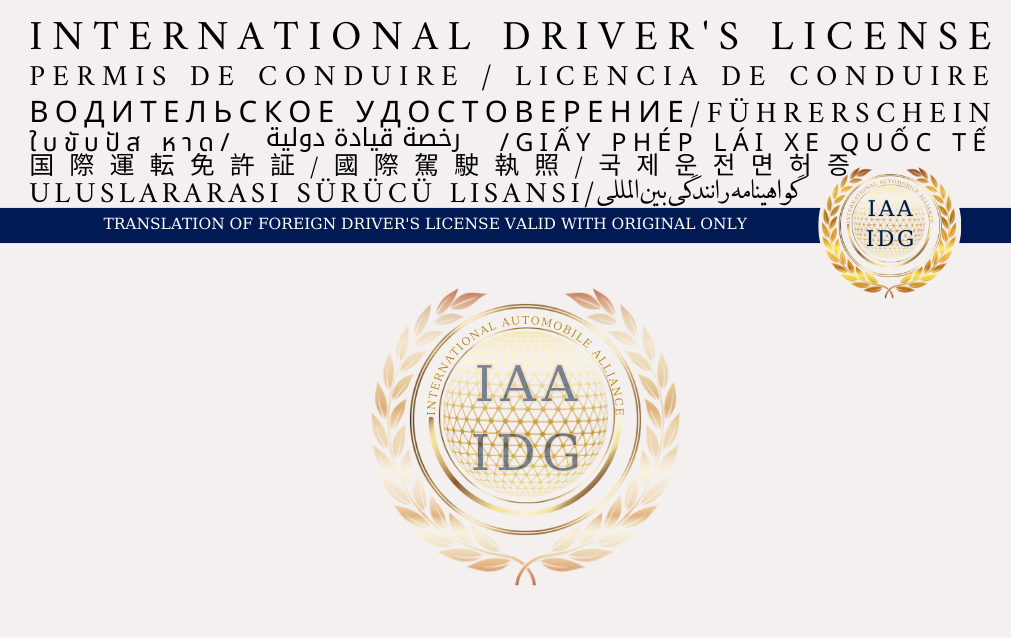
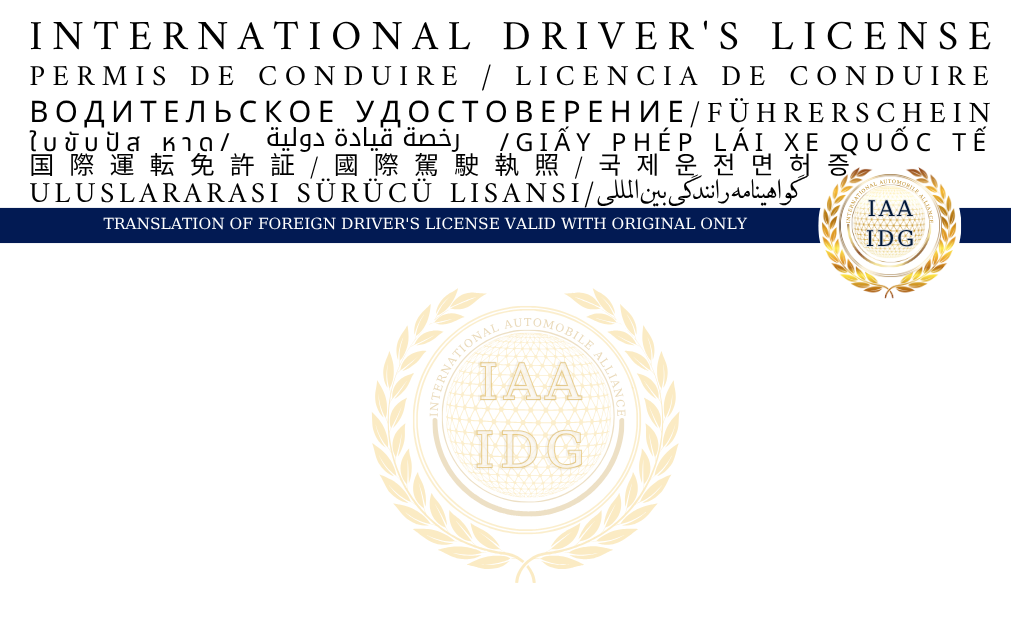
changes on the card image

Changed region(s): [[0.368, 0.446, 0.6746, 0.9218], [0.3986, 0.2379, 0.4293, 0.2676]]

diff --git a/src/components/InternationalDriverLicenseCard.tsx b/src/components/InternationalDriverLicenseCard.tsx
@@ -139,6 +139,7 @@ const InternationalDriverLicenseCard = ({
                             <div className="border border-gray-300 overflow-scroll p-4 rounded-lg bg-gray-50 flex justify-center">
                                 <div
                                     className="w-full max-w-md min-w-md overflow-hidden"
+                                    style={{ maxWidth: '30rem' }}
                                     ref={idCardRef}
                                 >
                                     {/* Card container with empty card background */}
@@ -150,7 +151,7 @@ const InternationalDriverLicenseCard = ({
                                     >
                                         {/* Empty card background image */}
                                         <img
-                                            src="/empty-card.png"
+                                            src="/card_bg.png"
                                             alt="International Driver's License Template"
                                             className="absolute top-0 left-0 w-full h-full object-cover"
                                         />
@@ -160,7 +161,7 @@ const InternationalDriverLicenseCard = ({
                                             className="absolute top-0 left-0 w-full h-full ">
                                             {/* Main content area (positioned to match the empty card) */}
                                             <div
-                                                className="absolute top-[37%] left-[28%] right-[4%]  font-bold text-xs flex flex-col gap-[3px]">
+                                                className="absolute top-[38%] left-[28%] right-[4%]  font-bold text-xs flex flex-col gap-[3px]">
                                                 <div className="text-[#011843]" >
                                                     INTERNATIONAL DRIVING PERMIT
                                                 </div>
@@ -235,7 +236,7 @@ const InternationalDriverLicenseCard = ({
                                             <div
                                                 style={{
                                                     position: 'absolute',
-                                                    bottom: '2%',
+                                                    bottom: '4%',
                                                     right: '20%',
                                                     width: '50px',
                                                     height: '50px',
@@ -275,7 +276,7 @@ const InternationalDriverLicenseCard = ({
                                             <div
                                                 style={{
                                                     position: 'absolute',
-                                                    bottom: '2%',
+                                                    bottom: '4%',
                                                     right: '2%',
                                                     textAlign: 'left',
                                                     zIndex: 3
